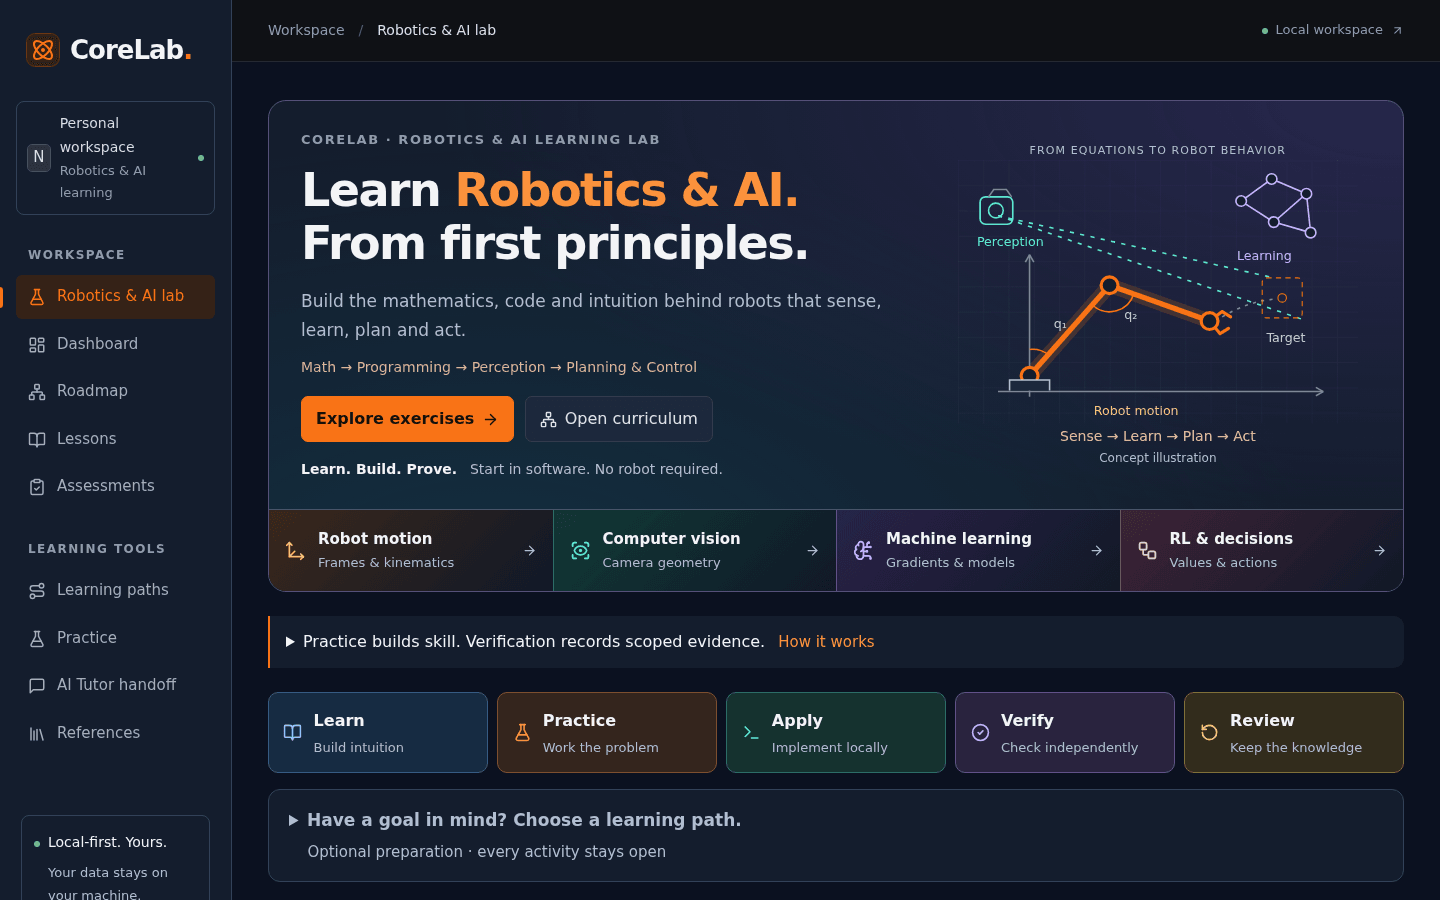
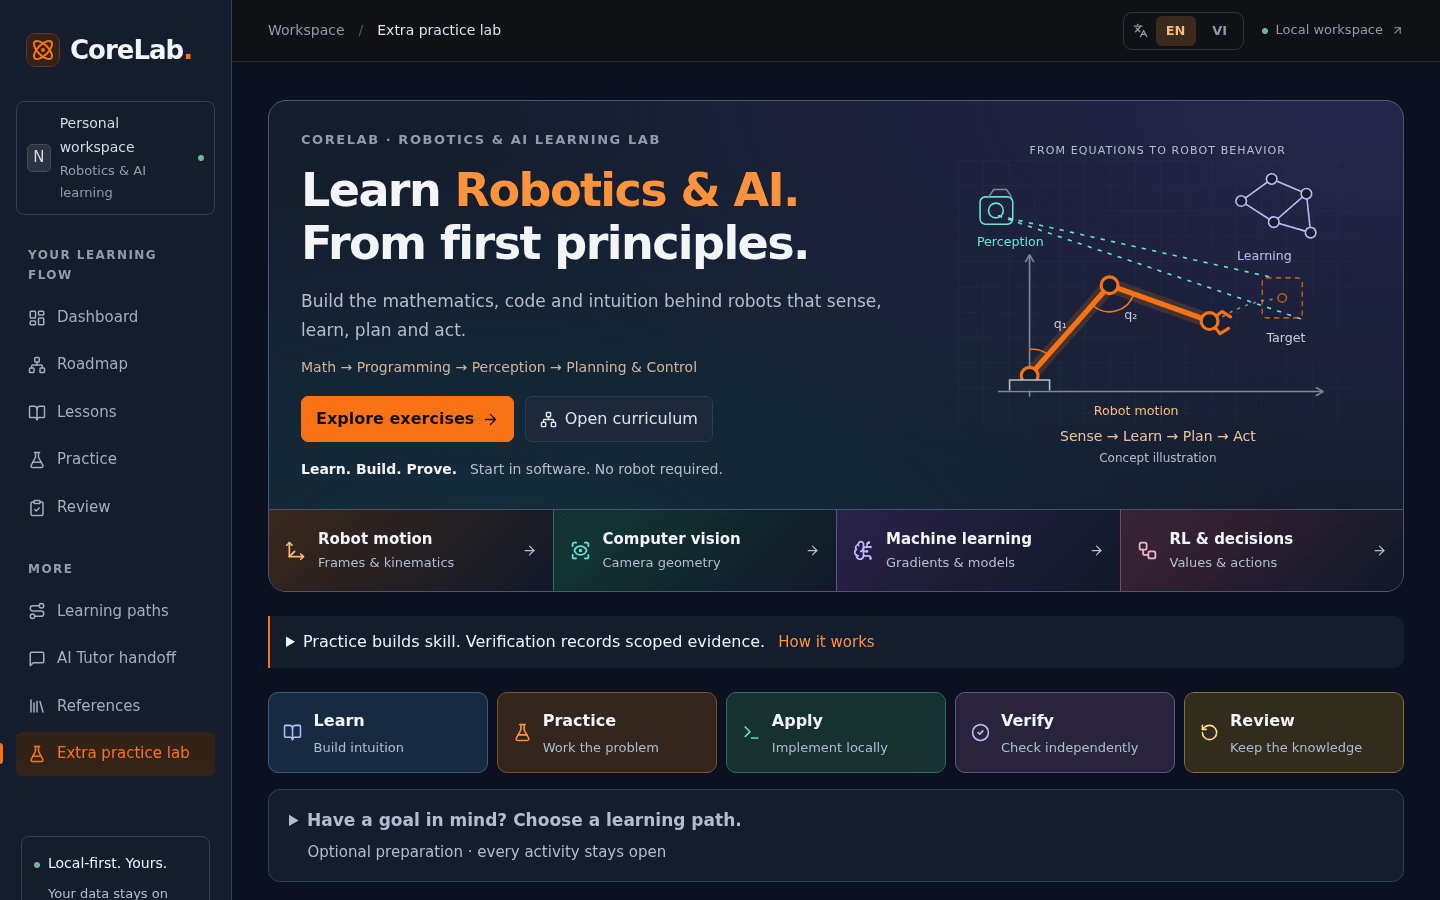
docs: refresh README for study sessions and the Vietnamese mode
Update screenshots to the current interface (session stepper, plain
navigation, Vietnamese lesson), describe the library track and its
optional installs, rename the V2 section to the Extra practice lab, and
correct the exercise count to 10-12 per lesson.

diff --git a/README.md b/README.md
@@ -31,7 +31,7 @@ CoreLab is a **free, local-first learning workspace** that takes you from vector
 
 - 🗺 **A real roadmap, not a playlist.** A 169-topic prerequisite graph covers mathematics, programming, ML, robotics, vision, RL, embodied AI and research methods. It explains why each next step is recommended.
 - 📖 **Complete lessons for every topic.** Each one has intuition, derivation, a fully worked example, a reference implementation, failure modes, trade-offs and further reading. Mathematics renders with KaTeX.
-- ✍ **Practice that builds real skill.** Every lesson has 8–12 graded exercises with worked answers, including problems adapted from well-known textbooks and courses. There are also interactive diagnostics and a targeted practice bank that finds your weak skills.
+- ✍ **Practice that builds real skill.** Every lesson has 10–12 graded exercises with worked answers, including problems adapted from well-known textbooks and courses. There are also interactive diagnostics and a targeted practice bank that finds your weak skills.
 - 🧪 **Labs you actually run.** Every topic has a hands-on lab with starter code, runnable tests and expected output. You code it yourself, on your own machine.
 - 🎬 **Curated videos for every topic.** There are 270 videos from 3Blue1Brown, MIT OpenCourseWare, Stanford, Steve Brunton, Cyrill Stachniss, CppCon and others. The player loads only when you click: no autoplay, with an original-source link.
 - 🖼 **160 original diagrams.** Purpose-drawn figures explain the idea: feedback loops, Kalman updates, capture points, PPO clipping, friction cones and more.
@@ -50,11 +50,17 @@ npm ci
 npm run dev
 ```
 
-Open **http://127.0.0.1:3000**. The local database is created automatically.
+Open **http://127.0.0.1:3000**. The local database is created automatically. Click **VI** in the top bar for Vietnamese.
+
+Most labs need only the Python standard library. The optional **Library track** in each lab uses real tools; install the ones you need:
+
+```bash
+python3 -m pip install numpy scipy matplotlib scikit-learn torch opencv-python gymnasium
+```
 
 ```bash
 npm run build && npm start   # production mode
-npm run dev:v2               # also enable the objective-based Robotics & AI lab at /objectives
+npm run dev:v2               # also enable the objective-based Extra practice lab at /objectives
 ```
 
 <details>
@@ -82,7 +88,7 @@ Use another port with `npm run dev -- --port 3001` and stop the server with **Ct
 
 ### Your next step, explained
 
-The dashboard shows a single recommended next topic and tells you why. It also tracks the topics you have evidence for, the ones you have attempted, and the reviews that are due.
+The dashboard recommends one next topic and says why, and it counts the topics you have mastered, the ones you have practised and the reviews that are due.
 
 <img src="docs/images/dashboard.png" alt="Dashboard with the recommended next topic and progress counters"/>
 
@@ -91,7 +97,7 @@ The dashboard shows a single recommended next topic and tells you why. It also t
 
 ### A map of 169 connected topics
 
-Search, filter by domain or status, or switch to an interactive graph to see how the prerequisites connect.
+Search the map or filter it by domain or status. You can also switch to an interactive graph to see how the prerequisites connect.
 
 <img src="docs/images/roadmap-graph.png" alt="Interactive prerequisite graph of the mathematics topics"/>
 
@@ -100,40 +106,66 @@ Search, filter by domain or status, or switch to an interactive graph to see how
 <tr>
 <td width="50%" valign="top">
 
-### Lessons with original diagrams
+### Four study sessions per lesson
 
-Each topic comes with a long-form lesson that has a table of contents, rendered math and a figure drawn for the idea. Shown here: the Kalman update.
+Each lesson is split into Learn → Practice → Build → Review, and every session shows a realistic time estimate. You tick sessions off as you finish them, and a progress bar tracks how far you are.
 
-<img src="docs/images/lesson-figure.png" alt="Kalman filtering lesson showing the prior, measurement and posterior Gaussian figure"/>
+<img src="docs/images/lesson-sessions.png" alt="Kalman filtering lesson with the Learn, Practice, Build and Review session stepper and progress bar"/>
 
 </td>
 <td width="50%" valign="top">
 
-### Hands-on labs with tests
+### Original diagrams and rendered math
 
-Each lab gives you a goal, setup, tasks, starter code with clear contracts, runnable tests, the expected output and an extension challenge.
+Each lesson has a long-form text with rendered math and a figure drawn for its idea. Shown here: the Kalman update.
 
-<img src="docs/images/lesson-lab.png" alt="Lab starter code for a Kalman filter with syntax highlighting and a copy button"/>
+<img src="docs/images/lesson-figure.png" alt="Kalman filtering lesson showing the prior, measurement and posterior Gaussian figure"/>
 
 </td>
 </tr>
 <tr>
 <td width="50%" valign="top">
 
-### Curated video, on your terms
+### Hands-on labs with tests
 
-Each topic has one to three verified videos. They load only when you ask, so nothing autoplays, and every video links to its original source.
+Each lab gives you:
 
-<img src="docs/images/lesson-video.png" alt="Recommended video panel with three 3Blue1Brown linear algebra videos"/>
+- a goal, setup and tasks;
+- starter code with a clear contract;
+- runnable tests and the expected output;
+- an extension challenge;
+- a **Library track** that redoes the lab with real tools.
+
+<img src="docs/images/lesson-lab.png" alt="Lab starter code for a Kalman filter with syntax highlighting and a copy button"/>
 
 </td>
 <td width="50%" valign="top">
 
-### Evidence, not checkboxes
+### Curated video, on your terms
 
-Diagnostics separately track **C**oncept, **M**ath, **I**mplementation and **T**ransfer. Each one shows suggested prerequisites and your history of evidence.
+Each topic has one to three verified videos. A video loads only when you ask for it, nothing autoplays, and every video links to its original source.
 
-<img src="docs/images/assessment.png" alt="Kalman filtering diagnostic with C/M/I/T competence cards and suggested prerequisites"/>
+<img src="docs/images/lesson-video.png" alt="Recommended video panel with three 3Blue1Brown linear algebra videos"/>
+
+</td>
+</tr>
+<tr>
+<td width="50%" valign="top">
+
+### Check what you know
+
+The quizzes mix concept, calculation and open questions, and they point you to the prerequisites. The detailed C/M/I/T tracking is still there, folded under **Details**.
+
+<img src="docs/images/assessment.png" alt="Kalman filtering check page with suggested prerequisites and mastery rules"/>
+
+</td>
+<td width="50%" valign="top">
+
+### Học bằng tiếng Việt
+
+The **EN/VI** switch translates the interface and every lesson, exercise and quiz. Code and math stay identical.
+
+<img src="docs/images/vi-lesson.png" alt="Kalman filter lesson shown in Vietnamese"/>
 
 </td>
 </tr>
@@ -186,9 +218,9 @@ flowchart LR
 | Why this matters · Intuition       | Where the idea shows up in real robots and AI systems, with an original figure |
 | Theory and derivation              | The math step by step, with assumptions and units stated                       |
 | Worked example                     | A fully worked numeric example you can check by hand                           |
-| **Exercises** (8–12)               | Easy → mini-project: conceptual, numeric, find-the-bug, predict, design, proof |
+| **Exercises** (10–12)              | Easy → mini-project: conceptual, numeric, find-the-bug, predict, design, proof |
 | Reference implementation           | Short, runnable code with a self-test                                          |
-| **Independent practice (lab)**     | Goal, setup, tasks, starter code, tests, expected output, extension challenge  |
+| **Independent practice (lab)**     | Goal, tasks, starter code, tests, expected output, extension, library track    |
 | Verification · Failure modes       | How to check your result, and the mistakes people really make                  |
 | Alternatives and trade-offs        | When to pick which method                                                      |
 | Exercise answers · Further reading | Worked solutions, sources and links to official problem sets for more practice |
@@ -198,10 +230,10 @@ flowchart LR
 **Diagnostic → Watch → Visualize → Understand → Derive → Implement → Verify → Review**
 
 1. **Start** from the dashboard recommendation or a learning path, and check the prerequisites.
-2. **Diagnose** first. Record any help honestly: **A0** none, **A1** hint, **A2** example, **A3** solution.
-3. **Watch and explore.** Predict before you press play or move a slider.
+2. **Check what you know** first. Say honestly how much help you used, from _No help (A0)_ to _Saw the solution (A3)_.
+3. **Learn session.** Watch and explore, predicting before you press play or move a slider.
 4. **Derive.** Rebuild the key equation on a blank page and explain every term.
-5. **Implement** the lab from scratch, then make the tests pass. Treat copied or AI-written code as assisted practice.
+5. **Practice and Build sessions.** Do the exercises before opening the answers, then implement the lab from scratch until the tests pass. Treat copied or AI-written code as assisted practice.
 6. **Verify.** Use hand calculations, boundaries and deliberately broken cases, then re-take the diagnostic.
 7. **Fix your weaknesses** in **Practice → My Weaknesses**, which targets the exact skills you missed.
 8. **Review** on a 1/3/7/21-day schedule and reconstruct the result from memory.
@@ -219,7 +251,7 @@ Reading, watching and clicking never count as mastery. A full independent (A0) d
 
 <p align="center"><img src="docs/images/mobile-lesson.png" alt="CoreLab lesson on a phone-width screen" width="260"/><br/><sub>Responsive down to phone width, with keyboard-friendly navigation.</sub></p>
 
-## 🧪 Robotics & AI lab (V2 preview)
+## 🧪 Extra practice lab (V2 preview)
 
 Run `npm run dev:v2` to open `/objectives`. This adds an **objective-based workspace** next to the curriculum:
 
@@ -250,7 +282,7 @@ npm run test:e2e                 # browser tests on an isolated database
 
 - ✅ All 169 topics have a lesson, exercises with answers, a lab, a diagnostic, a practice bank and curated video.
 - ⚠ **The content was drafted with AI assistance.** It then went through a second, independent AI review pass that re-derived every answer key, recomputed the numbers, re-ran the code and fixed the errors it found. Lab tests were also run, links checked and figures rendered. It has **not** been reviewed by a human expert. Spotted a mistake? Please [open an issue](https://github.com/trongnghia-le/corelab-robotics-ai/issues).
-- ⚠ ROS 2, simulator and hardware labs are not included. Local automated verification of submitted code is limited to a few fixed contracts.
+- ⚠ The app does not run ROS 2, simulators or hardware for you. Some library tracks include optional ROS 2/MuJoCo code to run on your own machine. Automatic verification of your submitted code is limited to a few fixed contracts.
 - 🧭 The browser UI is tested on Linux; CI runs the build and tests on Linux, Windows and macOS.
 
 ## 🤝 Contributing
